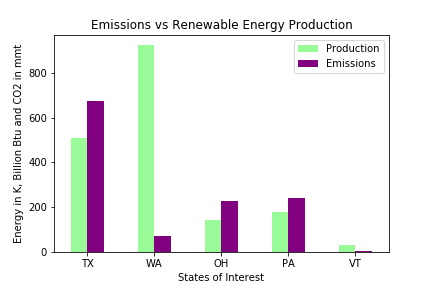
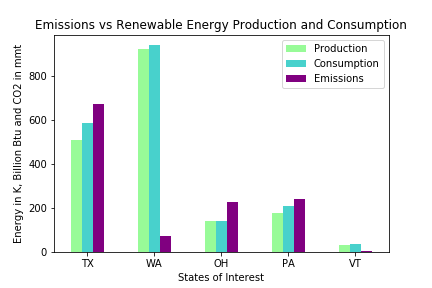
redoing bar chart and logs

diff --git a/logs/juliet.md b/logs/juliet.md
@@ -41,3 +41,8 @@ That was all for today was tired from grandma's services :(
 Made a basemap for emissions level, again extra but I really liked how it turned out! Might scrap it though because it doesnt go with my part. Thats all for today,
 time to study for finals.
 
+8/23/2020 Worked basemap into my part. The idea of comparing the percentage of renewable consumption to total energy consumptions crept up on me 
+while i made a grilled cheese sandwich. Had to do another API call to get the information for total energy consumption by  state and then calculate
+the percentages. I made some pie charts for our states of interest to compare to the emissions basemap. it turned out okay in my opinion. Worked on 
+slides for the presentation and did some edits to the presentation for continuity. 
+
